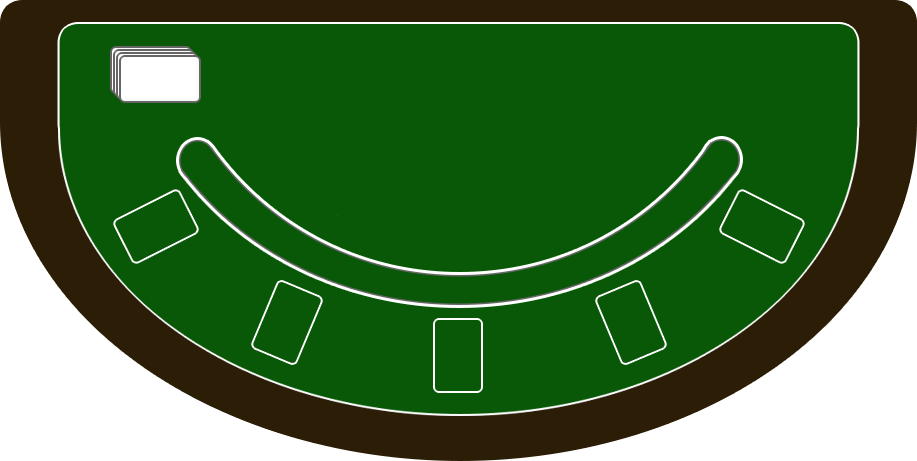
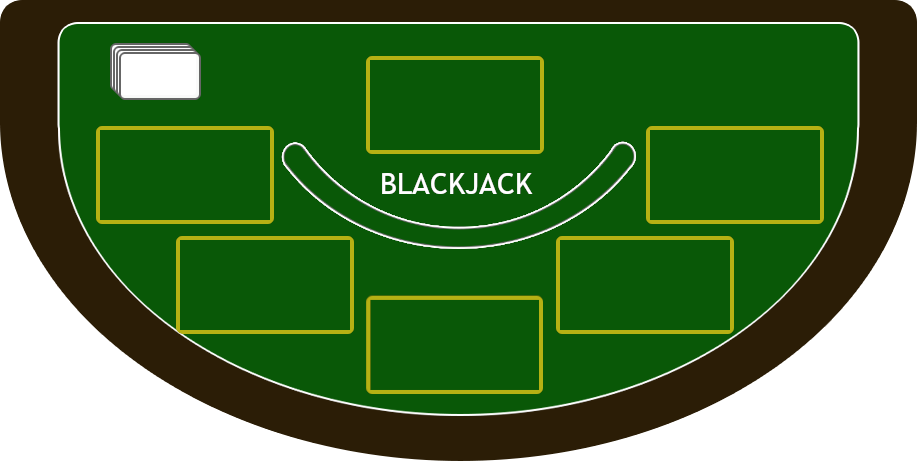
chips hinzugefügt

diff --git a/src/client/GUI.java b/src/client/GUI.java
@@ -9,6 +9,7 @@ public class GUI extends javax.swing.JFrame {
     private ClientController controller = new ClientController(this);
 
     private javax.swing.JLabel spielerKartenJLabelArray[][] = new javax.swing.JLabel[6][3];
+    private javax.swing.JLabel spielerCoins[][] = new javax.swing.JLabel[6][2];
     private javax.swing.JTextField comboBoxSpieleranzahlJTextArray[] = new javax.swing.JTextField[6];
     private javax.swing.JLabel comboBoxSpieleranzahlJLabelArray[] = new javax.swing.JLabel[6];
     private javax.swing.JPanel spielerKartenJPanelArray[] = new javax.swing.JPanel[6];
@@ -98,6 +99,18 @@ public class GUI extends javax.swing.JFrame {
         jTextAreaInfoTextMP1PC2 = new javax.swing.JTextArea();
         piMenuBackroundMP1PC3 = new javax.swing.JLabel();
         jPanelBrett = new javax.swing.JPanel();
+        BankCoin1 = new javax.swing.JLabel();
+        BankCoin2 = new javax.swing.JLabel();
+        Spieler1Coin1 = new javax.swing.JLabel();
+        Spieler1Coin2 = new javax.swing.JLabel();
+        Spieler2Coin1 = new javax.swing.JLabel();
+        Spieler2Coin2 = new javax.swing.JLabel();
+        Spieler3Coin1 = new javax.swing.JLabel();
+        Spieler3Coin2 = new javax.swing.JLabel();
+        Spieler4Coin1 = new javax.swing.JLabel();
+        Spieler4Coin2 = new javax.swing.JLabel();
+        Spieler5Coin1 = new javax.swing.JLabel();
+        Spieler5Coin2 = new javax.swing.JLabel();
         jScrollPane1 = new javax.swing.JScrollPane();
         jTableHighscore = new javax.swing.JTable();
         jPanelRunde = new javax.swing.JPanel();
@@ -656,6 +669,54 @@ public class GUI extends javax.swing.JFrame {
         jPanelBrett.setMaximumSize(new java.awt.Dimension(1200, 550));
         jPanelBrett.setLayout(new org.netbeans.lib.awtextra.AbsoluteLayout());
 
+        BankCoin1.setHorizontalAlignment(javax.swing.SwingConstants.CENTER);
+        BankCoin1.setIcon(new javax.swing.ImageIcon(getClass().getResource("/chip-blau.png"))); // NOI18N
+        jPanelBrett.add(BankCoin1, new org.netbeans.lib.awtextra.AbsoluteConstraints(600, 180, 30, 30));
+
+        BankCoin2.setHorizontalAlignment(javax.swing.SwingConstants.CENTER);
+        BankCoin2.setIcon(new javax.swing.ImageIcon(getClass().getResource("/chip-rot.png"))); // NOI18N
+        jPanelBrett.add(BankCoin2, new org.netbeans.lib.awtextra.AbsoluteConstraints(590, 180, 30, 30));
+
+        Spieler1Coin1.setHorizontalAlignment(javax.swing.SwingConstants.CENTER);
+        Spieler1Coin1.setIcon(new javax.swing.ImageIcon(getClass().getResource("/chip-blau.png"))); // NOI18N
+        jPanelBrett.add(Spieler1Coin1, new org.netbeans.lib.awtextra.AbsoluteConstraints(380, 150, 30, 30));
+
+        Spieler1Coin2.setHorizontalAlignment(javax.swing.SwingConstants.CENTER);
+        Spieler1Coin2.setIcon(new javax.swing.ImageIcon(getClass().getResource("/chip-rot.png"))); // NOI18N
+        jPanelBrett.add(Spieler1Coin2, new org.netbeans.lib.awtextra.AbsoluteConstraints(370, 150, 30, 30));
+
+        Spieler2Coin1.setHorizontalAlignment(javax.swing.SwingConstants.CENTER);
+        Spieler2Coin1.setIcon(new javax.swing.ImageIcon(getClass().getResource("/chip-blau.png"))); // NOI18N
+        jPanelBrett.add(Spieler2Coin1, new org.netbeans.lib.awtextra.AbsoluteConstraints(460, 260, 30, 30));
+
+        Spieler2Coin2.setHorizontalAlignment(javax.swing.SwingConstants.CENTER);
+        Spieler2Coin2.setIcon(new javax.swing.ImageIcon(getClass().getResource("/chip-rot.png"))); // NOI18N
+        jPanelBrett.add(Spieler2Coin2, new org.netbeans.lib.awtextra.AbsoluteConstraints(450, 260, 30, 30));
+
+        Spieler3Coin1.setHorizontalAlignment(javax.swing.SwingConstants.CENTER);
+        Spieler3Coin1.setIcon(new javax.swing.ImageIcon(getClass().getResource("/chip-blau.png"))); // NOI18N
+        jPanelBrett.add(Spieler3Coin1, new org.netbeans.lib.awtextra.AbsoluteConstraints(600, 320, 30, 30));
+
+        Spieler3Coin2.setHorizontalAlignment(javax.swing.SwingConstants.CENTER);
+        Spieler3Coin2.setIcon(new javax.swing.ImageIcon(getClass().getResource("/chip-rot.png"))); // NOI18N
+        jPanelBrett.add(Spieler3Coin2, new org.netbeans.lib.awtextra.AbsoluteConstraints(590, 320, 30, 30));
+
+        Spieler4Coin1.setHorizontalAlignment(javax.swing.SwingConstants.CENTER);
+        Spieler4Coin1.setIcon(new javax.swing.ImageIcon(getClass().getResource("/chip-blau.png"))); // NOI18N
+        jPanelBrett.add(Spieler4Coin1, new org.netbeans.lib.awtextra.AbsoluteConstraints(710, 260, 30, 30));
+
+        Spieler4Coin2.setHorizontalAlignment(javax.swing.SwingConstants.CENTER);
+        Spieler4Coin2.setIcon(new javax.swing.ImageIcon(getClass().getResource("/chip-rot.png"))); // NOI18N
+        jPanelBrett.add(Spieler4Coin2, new org.netbeans.lib.awtextra.AbsoluteConstraints(720, 260, 30, 30));
+
+        Spieler5Coin1.setHorizontalAlignment(javax.swing.SwingConstants.CENTER);
+        Spieler5Coin1.setIcon(new javax.swing.ImageIcon(getClass().getResource("/chip-blau.png"))); // NOI18N
+        jPanelBrett.add(Spieler5Coin1, new org.netbeans.lib.awtextra.AbsoluteConstraints(800, 150, 30, 30));
+
+        Spieler5Coin2.setHorizontalAlignment(javax.swing.SwingConstants.CENTER);
+        Spieler5Coin2.setIcon(new javax.swing.ImageIcon(getClass().getResource("/chip-rot.png"))); // NOI18N
+        jPanelBrett.add(Spieler5Coin2, new org.netbeans.lib.awtextra.AbsoluteConstraints(810, 150, 30, 30));
+
         jTableHighscore.setBorder(new javax.swing.border.SoftBevelBorder(javax.swing.border.BevelBorder.RAISED));
         jTableHighscore.setFont(new java.awt.Font("Segoe UI", 0, 12)); // NOI18N
         jTableHighscore.setModel(new javax.swing.table.DefaultTableModel(
@@ -819,6 +880,7 @@ public class GUI extends javax.swing.JFrame {
 
         jPanelBrett.add(jPanelStats, new org.netbeans.lib.awtextra.AbsoluteConstraints(30, 340, 260, 50));
 
+        Karten_Baenker.setBackground(new java.awt.Color(9, 86, 6));
         Karten_Baenker.setBorder(javax.swing.BorderFactory.createEtchedBorder());
 
         karte1_Baenker.setIcon(new javax.swing.ImageIcon(getClass().getResource("/karten-klein/rückseite.png"))); // NOI18N
@@ -852,8 +914,9 @@ public class GUI extends javax.swing.JFrame {
                     .addComponent(karte3_Baenker, javax.swing.GroupLayout.PREFERRED_SIZE, 70, javax.swing.GroupLayout.PREFERRED_SIZE)))
         );
 
-        jPanelBrett.add(Karten_Baenker, new org.netbeans.lib.awtextra.AbsoluteConstraints(520, 120, 170, 90));
+        jPanelBrett.add(Karten_Baenker, new org.netbeans.lib.awtextra.AbsoluteConstraints(520, 100, 170, 90));
 
+        Karten_Spieler1.setBackground(new java.awt.Color(9, 86, 6));
         Karten_Spieler1.setBorder(javax.swing.BorderFactory.createEtchedBorder());
 
         karte1_Spieler1.setIcon(new javax.swing.ImageIcon(getClass().getResource("/karten-klein/rückseite.png"))); // NOI18N
@@ -889,6 +952,7 @@ public class GUI extends javax.swing.JFrame {
 
         jPanelBrett.add(Karten_Spieler1, new org.netbeans.lib.awtextra.AbsoluteConstraints(250, 170, 170, 90));
 
+        Karten_Spieler2.setBackground(new java.awt.Color(9, 86, 6));
         Karten_Spieler2.setBorder(javax.swing.BorderFactory.createEtchedBorder());
 
         karte1_Spieler2.setIcon(new javax.swing.ImageIcon(getClass().getResource("/karten-klein/rückseite.png"))); // NOI18N
@@ -924,6 +988,7 @@ public class GUI extends javax.swing.JFrame {
 
         jPanelBrett.add(Karten_Spieler2, new org.netbeans.lib.awtextra.AbsoluteConstraints(330, 280, 170, 90));
 
+        Karten_Spieler3.setBackground(new java.awt.Color(9, 86, 6));
         Karten_Spieler3.setBorder(javax.swing.BorderFactory.createEtchedBorder());
 
         karte1_Spieler3.setIcon(new javax.swing.ImageIcon(getClass().getResource("/karten-klein/rückseite.png"))); // NOI18N
@@ -959,6 +1024,7 @@ public class GUI extends javax.swing.JFrame {
 
         jPanelBrett.add(Karten_Spieler3, new org.netbeans.lib.awtextra.AbsoluteConstraints(520, 340, 170, 90));
 
+        Karten_Spieler4.setBackground(new java.awt.Color(9, 86, 6));
         Karten_Spieler4.setBorder(javax.swing.BorderFactory.createEtchedBorder());
 
         karte1_Spieler4.setIcon(new javax.swing.ImageIcon(getClass().getResource("/karten-klein/rückseite.png"))); // NOI18N
@@ -994,6 +1060,7 @@ public class GUI extends javax.swing.JFrame {
 
         jPanelBrett.add(Karten_Spieler4, new org.netbeans.lib.awtextra.AbsoluteConstraints(710, 280, 170, 90));
 
+        Karten_Spieler5.setBackground(new java.awt.Color(9, 86, 6));
         Karten_Spieler5.setBorder(javax.swing.BorderFactory.createEtchedBorder());
 
         karte1_Spieler5.setIcon(new javax.swing.ImageIcon(getClass().getResource("/karten-klein/rückseite.png"))); // NOI18N
@@ -1387,8 +1454,14 @@ public class GUI extends javax.swing.JFrame {
         jButtonEinsatz.setVisible(true);
         jLabelEinsatz.setVisible(true);
         jTextFieldEinsatz.setVisible(true);
-        
+
         jButtonKarteZiehen.setVisible(false);
+
+        for (int i = 0; i < 6; i++) {
+            for (int j = 0; j < 2; j++) {
+                spielerCoins[i][j].setVisible(false);
+            }
+        }
 
         jLabelRunde.setText("Setze deinen Einsatz!");
         jButtonEinsatz.setText("Einsatz setzen");
@@ -1405,7 +1478,7 @@ public class GUI extends javax.swing.JFrame {
         jButtonKarteZiehen.setVisible(true);
         jButtonEinsatz.setVisible(true);
         jLabelEinsatz.setVisible(false);
-        
+
         jTextFieldEinsatz.setVisible(false);
 
         jButtonEinsatz.setText("Weiter");
@@ -1418,9 +1491,11 @@ public class GUI extends javax.swing.JFrame {
     public void schaltflaecheDesAktuellenSpielersFarbigAktuallisieren() {
         for (int i = 0; i < spielerKartenJPanelArray.length; i++) {
             if (controller.getAktuellerSpieler() == i) {
-                spielerKartenJPanelArray[i].setBackground(Color.green);
+                float[] hsb = Color.RGBtoHSB(4, 39, 3, null);
+                spielerKartenJPanelArray[i].setBackground(Color.getHSBColor(hsb[0], hsb[1], hsb[2]));
             } else {
-                spielerKartenJPanelArray[i].setBackground(Color.white);
+                float[] hsb = Color.RGBtoHSB(9, 88, 7, null);
+                spielerKartenJPanelArray[i].setBackground(Color.getHSBColor(hsb[0], hsb[1], hsb[2]));
             }
         }
     }
@@ -1430,6 +1505,7 @@ public class GUI extends javax.swing.JFrame {
         if (!jLabelEinsatz.getText().equals("") && controller.getRunde() == 1) {
             // Sobald die Überprüfung erfolgreich war, setzt der Spieler seinen Einsatz.
             controller.getSpieler().get(controller.getAktuellerSpieler()).setEinsatz(Integer.parseInt(jTextFieldEinsatz.getText()));
+            spielerCoins[controller.getAktuellerSpieler()][(int) (Math.random() * 2)*1].setVisible(true);
             controller.highscoreAktuallisieren(jTableHighscore);
             jTextFieldEinsatz.setText("");
             // Der nächste Spieler ist am Zug
@@ -1580,6 +1656,19 @@ public class GUI extends javax.swing.JFrame {
         spielerKartenJLabelArray[5][1] = karte2_Spieler5;
         spielerKartenJLabelArray[5][2] = karte3_Spieler5;
 
+        spielerCoins[0][0] = BankCoin1;
+        spielerCoins[0][1] = BankCoin2;
+        spielerCoins[1][0] = Spieler1Coin1;
+        spielerCoins[1][1] = Spieler1Coin2;
+        spielerCoins[2][0] = Spieler2Coin1;
+        spielerCoins[2][1] = Spieler2Coin2;
+        spielerCoins[3][0] = Spieler3Coin1;
+        spielerCoins[3][1] = Spieler3Coin2;
+        spielerCoins[4][0] = Spieler4Coin1;
+        spielerCoins[4][1] = Spieler4Coin2;
+        spielerCoins[5][0] = Spieler5Coin1;
+        spielerCoins[5][1] = Spieler5Coin2;
+
         comboBoxSpieleranzahlJLabelArray[0] = JLabelBänkerMP1PC1;
         comboBoxSpieleranzahlJLabelArray[1] = JLabelSpieler1MP1PC1;
         comboBoxSpieleranzahlJLabelArray[2] = JLabelSpieler2MP1PC1;
@@ -1628,6 +1717,8 @@ public class GUI extends javax.swing.JFrame {
     private javax.swing.JPanel AnfangjPanel;
     private javax.swing.JProgressBar AnfangjProgressBar;
     private javax.swing.JButton AnzahlSpielerButton1;
+    private javax.swing.JLabel BankCoin1;
+    private javax.swing.JLabel BankCoin2;
     private javax.swing.JButton ButtonLobbySuchen;
     private javax.swing.JLabel JLabelBänkerMP1PC1;
     private javax.swing.JLabel JLabelSpieler1MP1PC1;
@@ -1647,6 +1738,16 @@ public class GUI extends javax.swing.JFrame {
     private javax.swing.JPanel Karten_Spieler3;
     private javax.swing.JPanel Karten_Spieler4;
     private javax.swing.JPanel Karten_Spieler5;
+    private javax.swing.JLabel Spieler1Coin1;
+    private javax.swing.JLabel Spieler1Coin2;
+    private javax.swing.JLabel Spieler2Coin1;
+    private javax.swing.JLabel Spieler2Coin2;
+    private javax.swing.JLabel Spieler3Coin1;
+    private javax.swing.JLabel Spieler3Coin2;
+    private javax.swing.JLabel Spieler4Coin1;
+    private javax.swing.JLabel Spieler4Coin2;
+    private javax.swing.JLabel Spieler5Coin1;
+    private javax.swing.JLabel Spieler5Coin2;
     private javax.swing.JTextField TextFieldGebenSieIhrenNamenEin;
     private javax.swing.JTextField TextFieldPort;
     private javax.swing.JTextField TextFieldServerIP;
